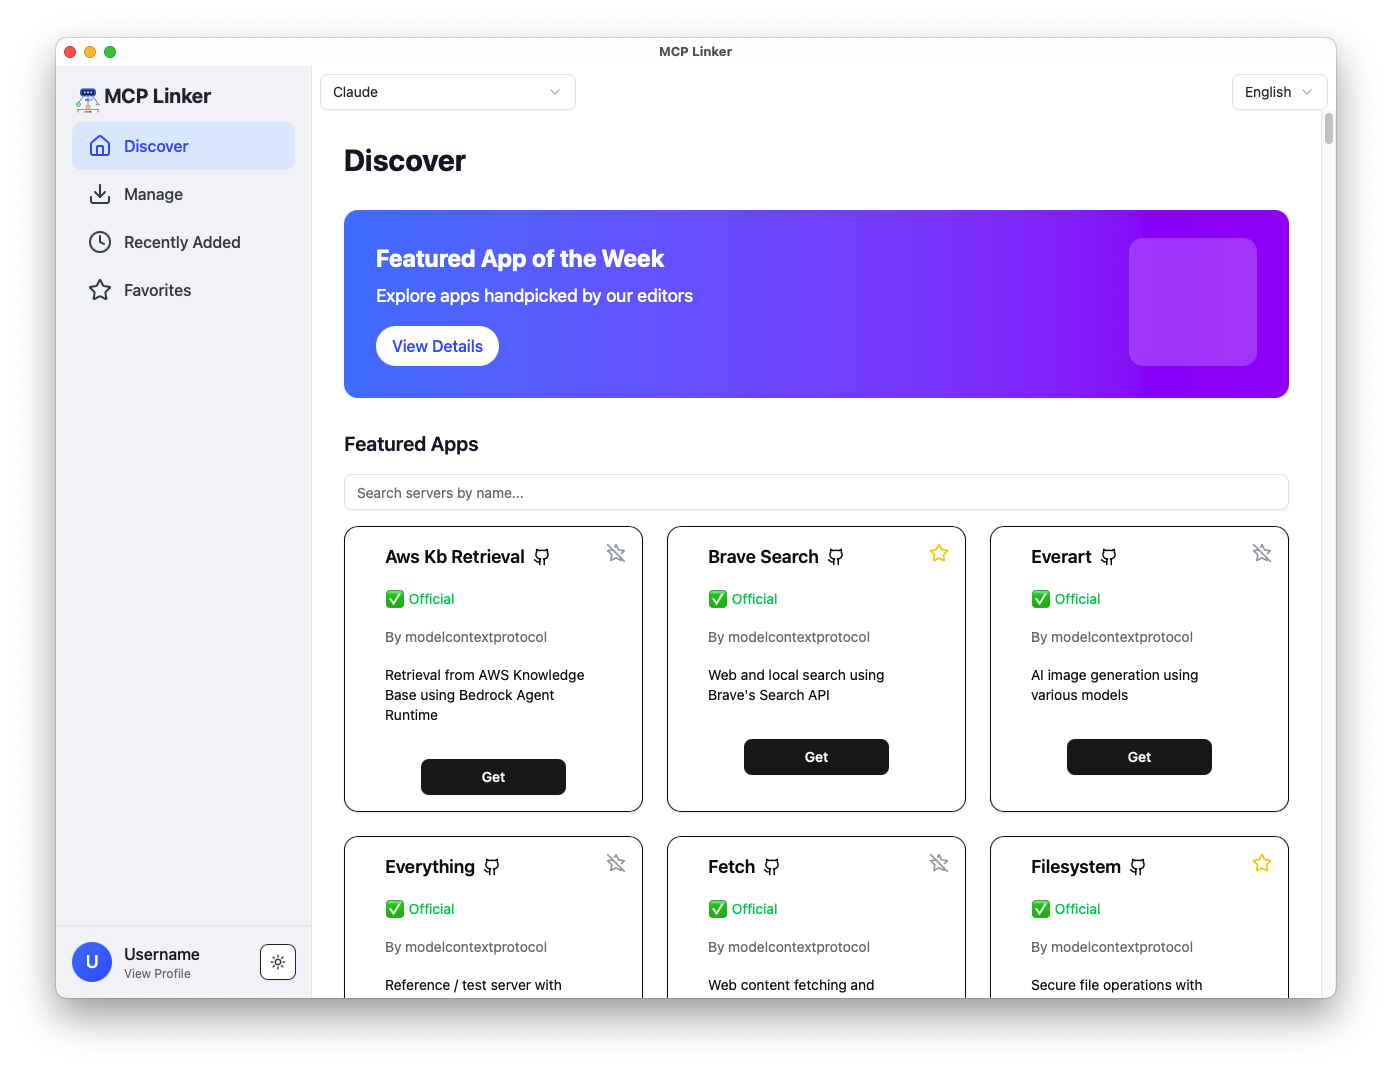
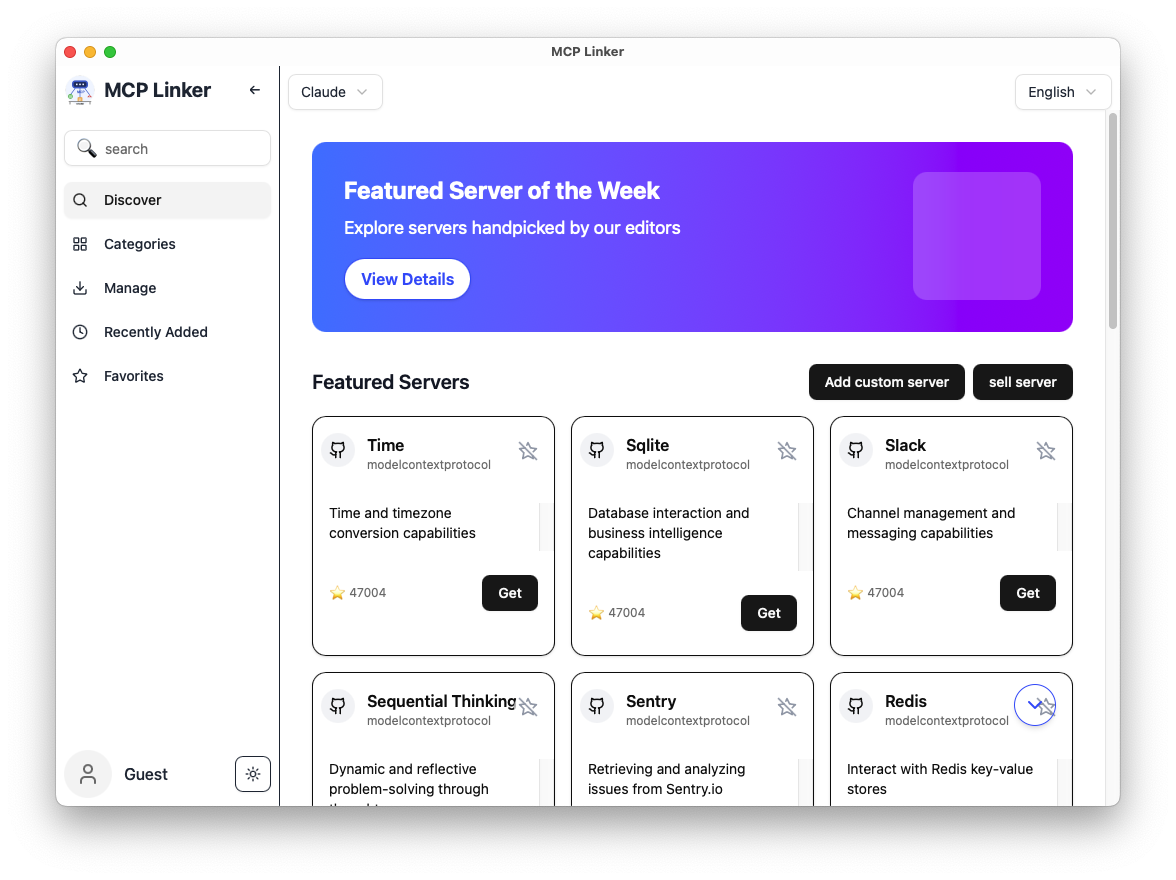
docs: update README with new features and improvements
- Added new entry for server list sorting by GitHub stars (2025-05-19).
- Updated preview information for online MCP servers (2025-05-16).
- Clarified wording for adding custom servers (2025-05-08).
- Improved formatting for better readability.

Changed region(s): [[0.0306, 0.0307, 0.9796, 0.9511], [0.4592, 0.0307, 0.551, 0.0614], [0.8878, 0.4909, 0.9184, 0.5216]]

diff --git a/README.md b/README.md
@@ -9,8 +9,9 @@
 
 ## News
 
-- 2025-05-16: online MCP servers store  
-- 2025-05-08: Support add custom server
+- 2025-05-19: server list sort by github stars  
+- 2025-05-16: online MCP servers store preview  
+- 2025-05-08: Support adding custom server  
 
 ---
 
@@ -54,7 +55,7 @@
 ✅ Favorites & Recently Used: Quickly access your go-to servers  
 ✅ Cross-platform: macOS, Windows, Linux support  
 ✅ Multi-language: English, 中文, 日本語  
-✅ Improved error handling and user-friendly setup
+✅ Improved error handling and user-friendly setup  
 ✅ The server install by uvx or npx base the command
 
 ## 🚀 Quick Start
